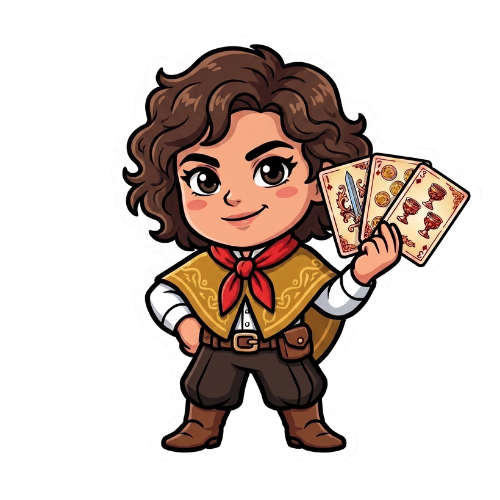
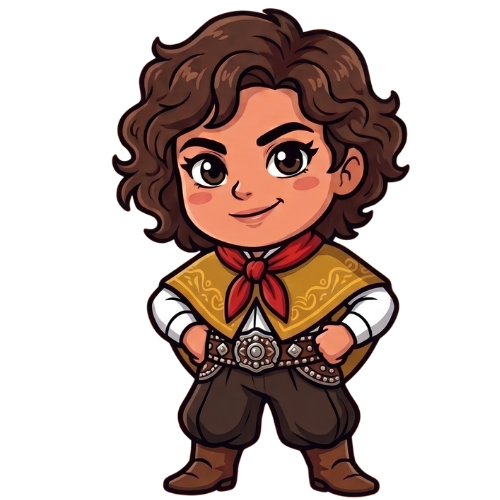
Pase 389: nueva gaucha2 sin borde blanco; Mi torneo sobre la barra inferior en pantallas angostas

diff --git a/src/components/Torneos/BotonTorneoFlotante.js b/src/components/Torneos/BotonTorneoFlotante.js
@@ -8,10 +8,33 @@ import { API_URL as BASE_URL } from '../../config';
 // cupos libres y, ya en curso, los cruces. Con más de un torneo abre una listita para elegir.
 const API_URL = `${BASE_URL}/api/torneos`;
 const REFRESCO_MS = 20000;
+// Pase 389: en pantallas angostas (< 900 px) la barra de navegación queda fija abajo (ver .ts-nav en app-shell.css)
+// y el botón caía justo encima de la pestaña "Salas". Ahí se sube por encima de la barra.
+const CONSULTA_MOVIL = '(max-width: 899px)';
+const ALTO_NAV_MOVIL = 108;
+
+function useEsMovil() {
+  const leer = () => (typeof window !== 'undefined' && window.matchMedia ? window.matchMedia(CONSULTA_MOVIL).matches : false);
+  const [esMovil, setEsMovil] = useState(leer);
+  useEffect(() => {
+    if (!window.matchMedia) return undefined;
+    const mq = window.matchMedia(CONSULTA_MOVIL);
+    const alCambiar = () => setEsMovil(mq.matches);
+    alCambiar();
+    if (mq.addEventListener) mq.addEventListener('change', alCambiar);
+    else mq.addListener(alCambiar);
+    return () => {
+      if (mq.removeEventListener) mq.removeEventListener('change', alCambiar);
+      else mq.removeListener(alCambiar);
+    };
+  }, []);
+  return esMovil;
+}
 
 export default function BotonTorneoFlotante({ token, pantalla, onAbrir }) {
   const [torneos, setTorneos] = useState([]);
   const [menuAbierto, setMenuAbierto] = useState(false);
+  const esMovil = useEsMovil();
 
   const cargar = useCallback(async () => {
     if (!token) return;
@@ -49,7 +72,7 @@ export default function BotonTorneoFlotante({ token, pantalla, onAbrir }) {
   };
 
   return (
-    <div style={estilos.contenedor}>
+    <div style={{ ...estilos.contenedor, ...(esMovil ? { bottom: `calc(${ALTO_NAV_MOVIL}px + env(safe-area-inset-bottom, 0px))` } : null) }}>
       {menuAbierto && (
         <div style={estilos.menu}>
           <div style={estilos.menuTitulo}>Mis torneos</div>
